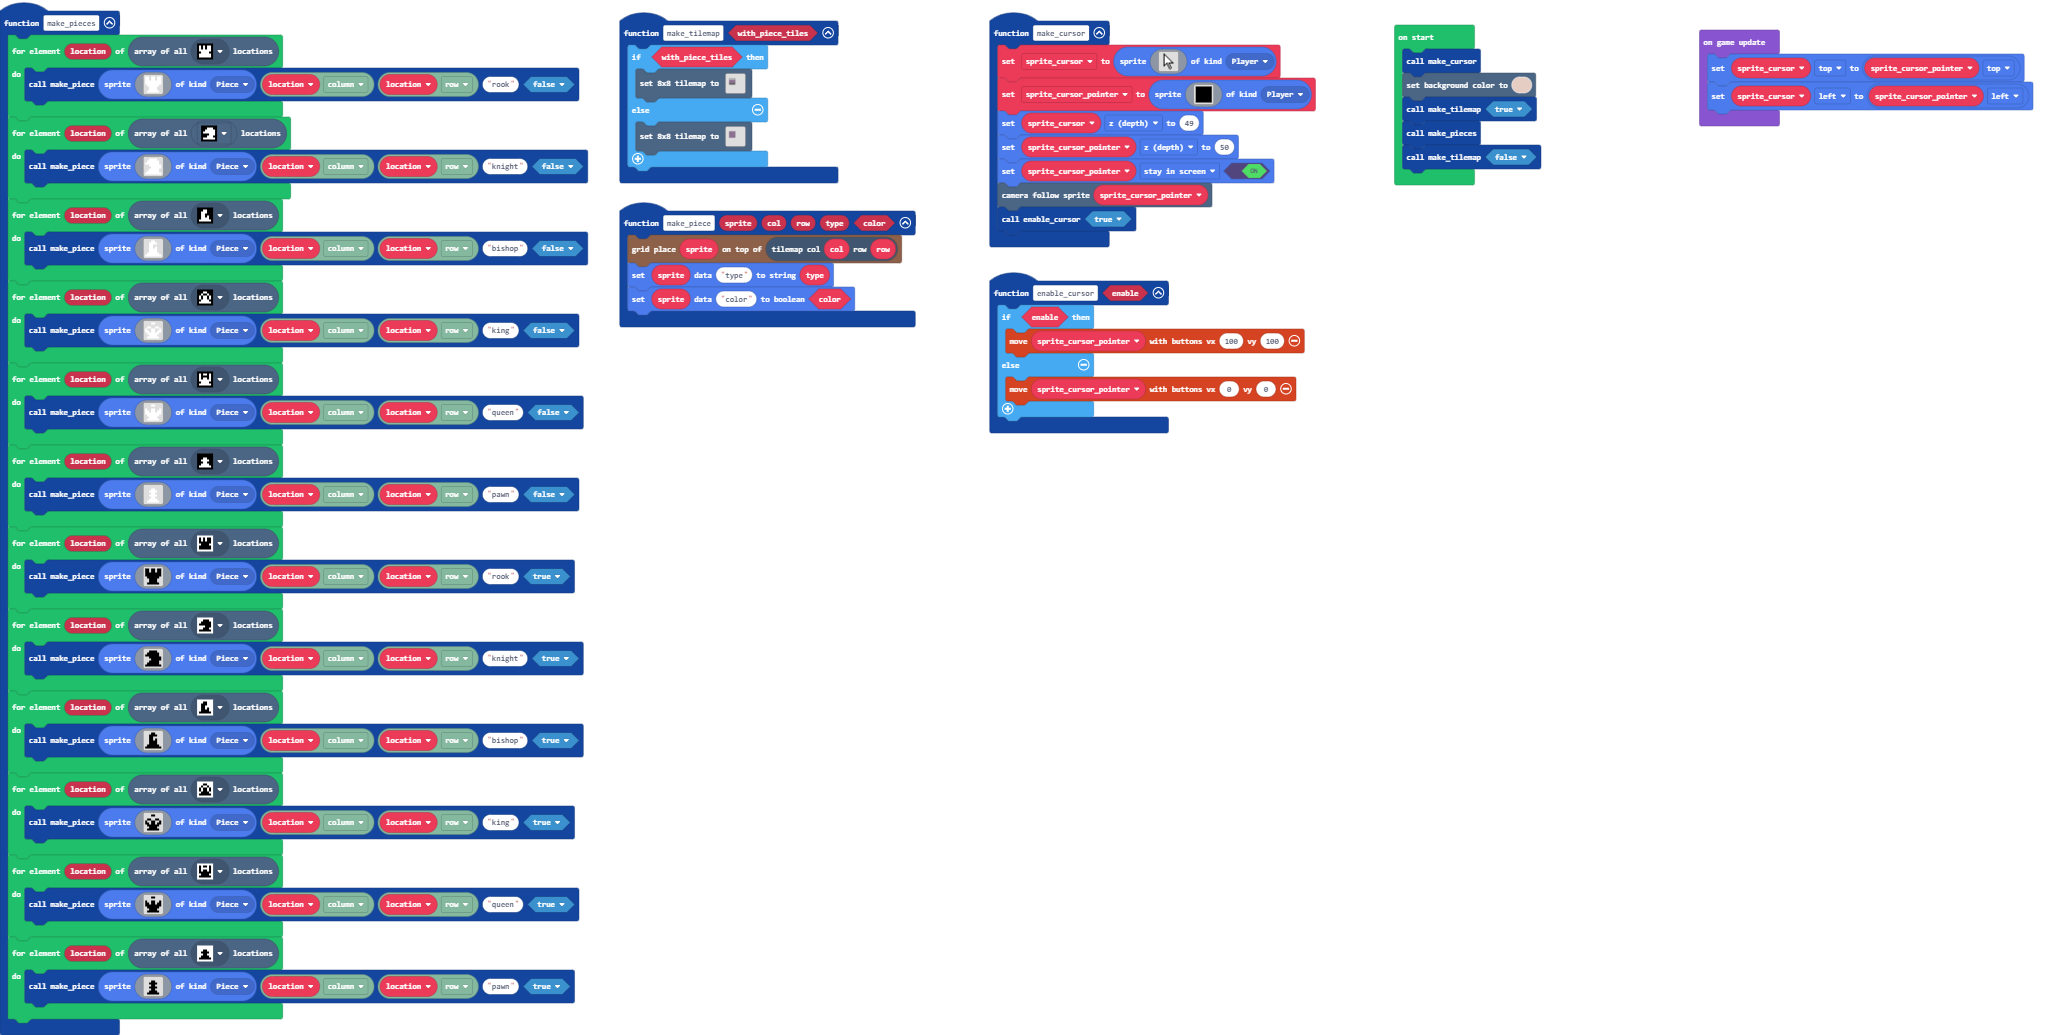
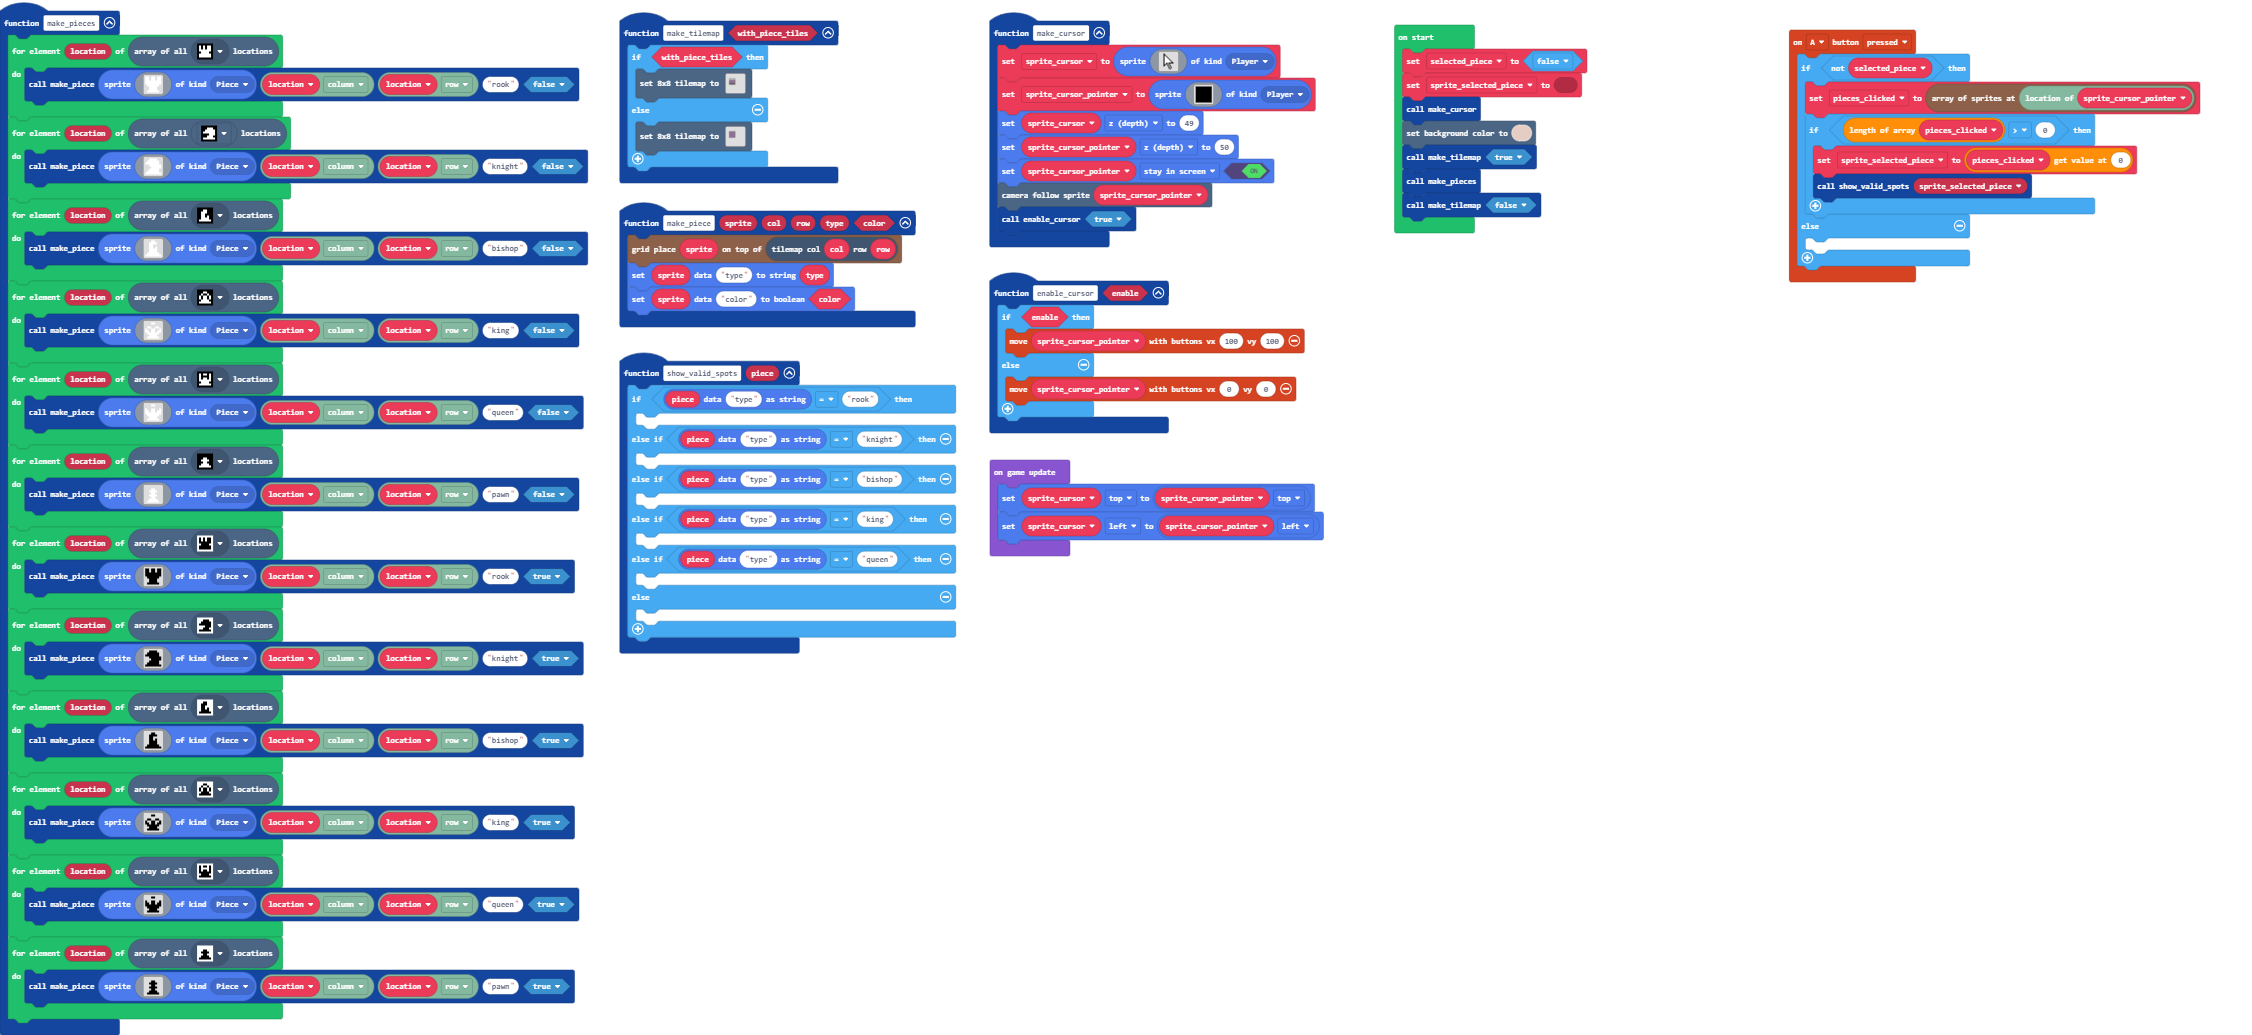
Create function to switch between showing valid spots for pieces

Changed region(s): [[0.0, 0.0, 0.746, 0.9894], [0.7771, 0.0309, 0.9947, 0.2783], [0.0311, 0.9894, 0.0622, 1.0]]

diff --git a/main.ts b/main.ts
@@ -39,6 +39,32 @@ function make_pieces () {
         make_piece(sprites.create(assets.image`black_pawn`, SpriteKind.Piece), tiles.locationXY(location, tiles.XY.column), tiles.locationXY(location, tiles.XY.row), "pawn", true)
     }
 }
+controller.A.onEvent(ControllerButtonEvent.Pressed, function () {
+    if (!(selected_piece)) {
+        pieces_clicked = grid.getSprites(tiles.locationOfSprite(sprite_cursor_pointer))
+        if (pieces_clicked.length > 0) {
+            sprite_selected_piece = pieces_clicked[0]
+            show_valid_spots(sprite_selected_piece)
+        }
+    } else {
+    	
+    }
+})
+function show_valid_spots (piece: Sprite) {
+    if (sprites.readDataString(piece, "type") == "rook") {
+    	
+    } else if (sprites.readDataString(piece, "type") == "knight") {
+    	
+    } else if (sprites.readDataString(piece, "type") == "bishop") {
+    	
+    } else if (sprites.readDataString(piece, "type") == "king") {
+    	
+    } else if (sprites.readDataString(piece, "type") == "queen") {
+    	
+    } else {
+    	
+    }
+}
 function make_cursor () {
     sprite_cursor = sprites.create(assets.image`cursor`, SpriteKind.Player)
     sprite_cursor_pointer = sprites.create(assets.image`cursor_pointer`, SpriteKind.Player)
@@ -67,8 +93,13 @@ function make_piece (sprite: Sprite, col: number, row: number, _type: string, co
     sprites.setDataString(sprite, "type", _type)
     sprites.setDataBoolean(sprite, "color", color)
 }
-let sprite_cursor_pointer: Sprite = null
 let sprite_cursor: Sprite = null
+let sprite_cursor_pointer: Sprite = null
+let pieces_clicked: Sprite[] = []
+let sprite_selected_piece: Sprite = null
+let selected_piece = false
+selected_piece = false
+sprite_selected_piece = null
 make_cursor()
 scene.setBackgroundColor(13)
 make_tilemap(true)
